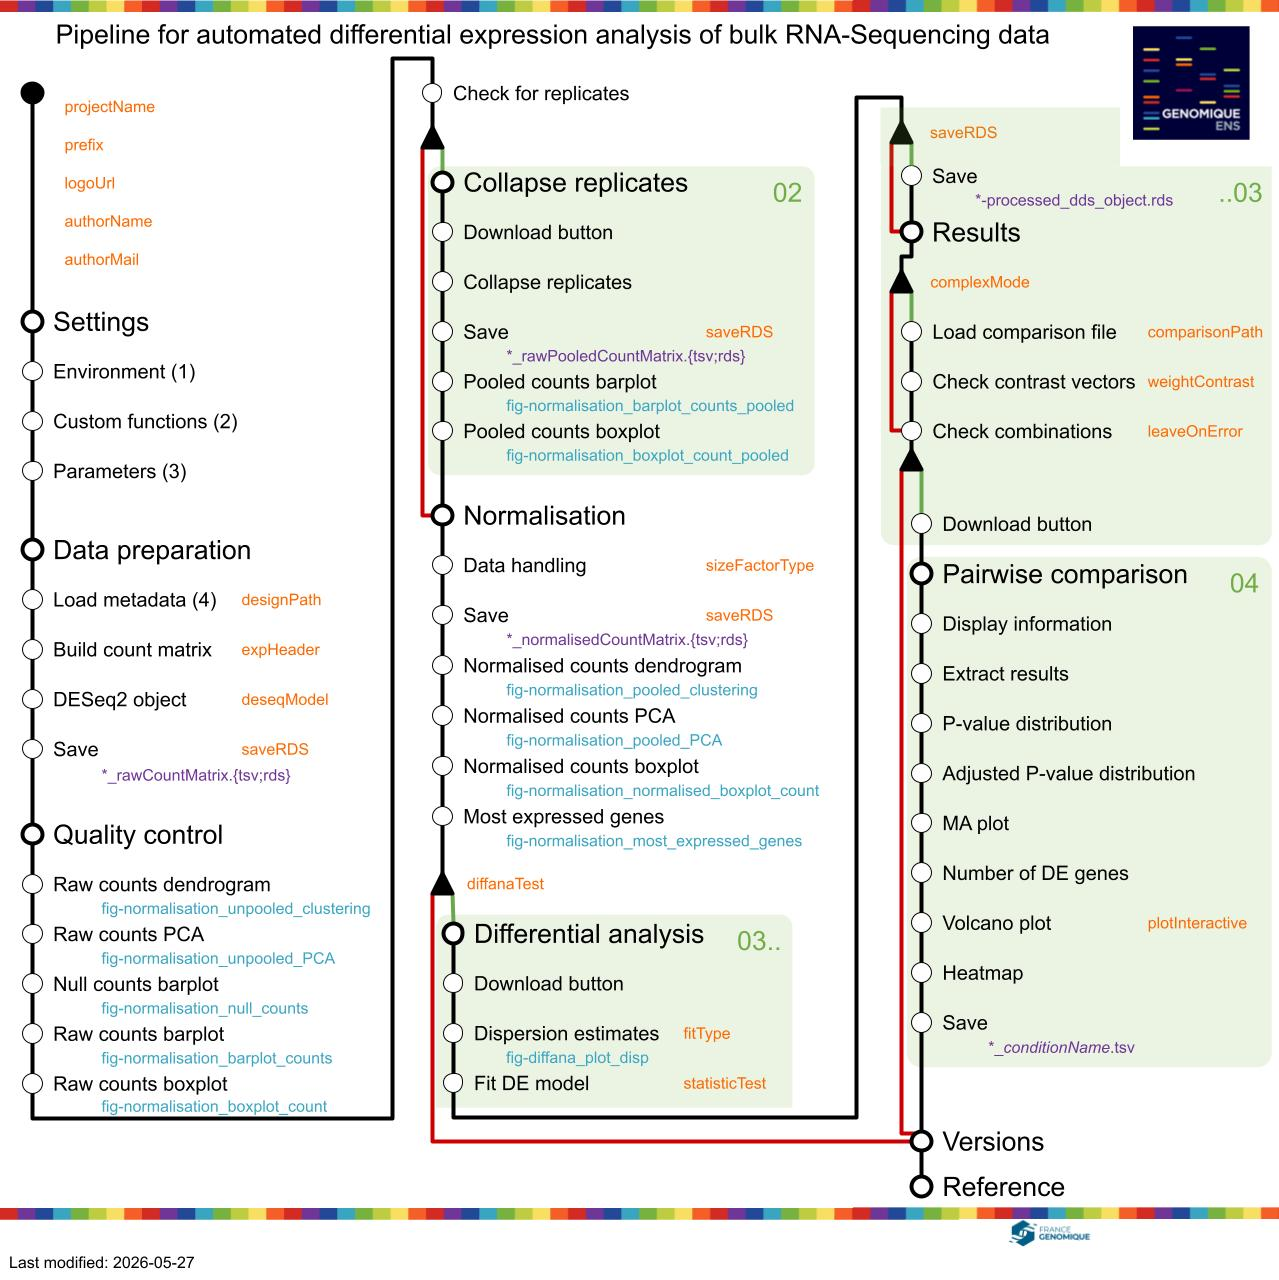
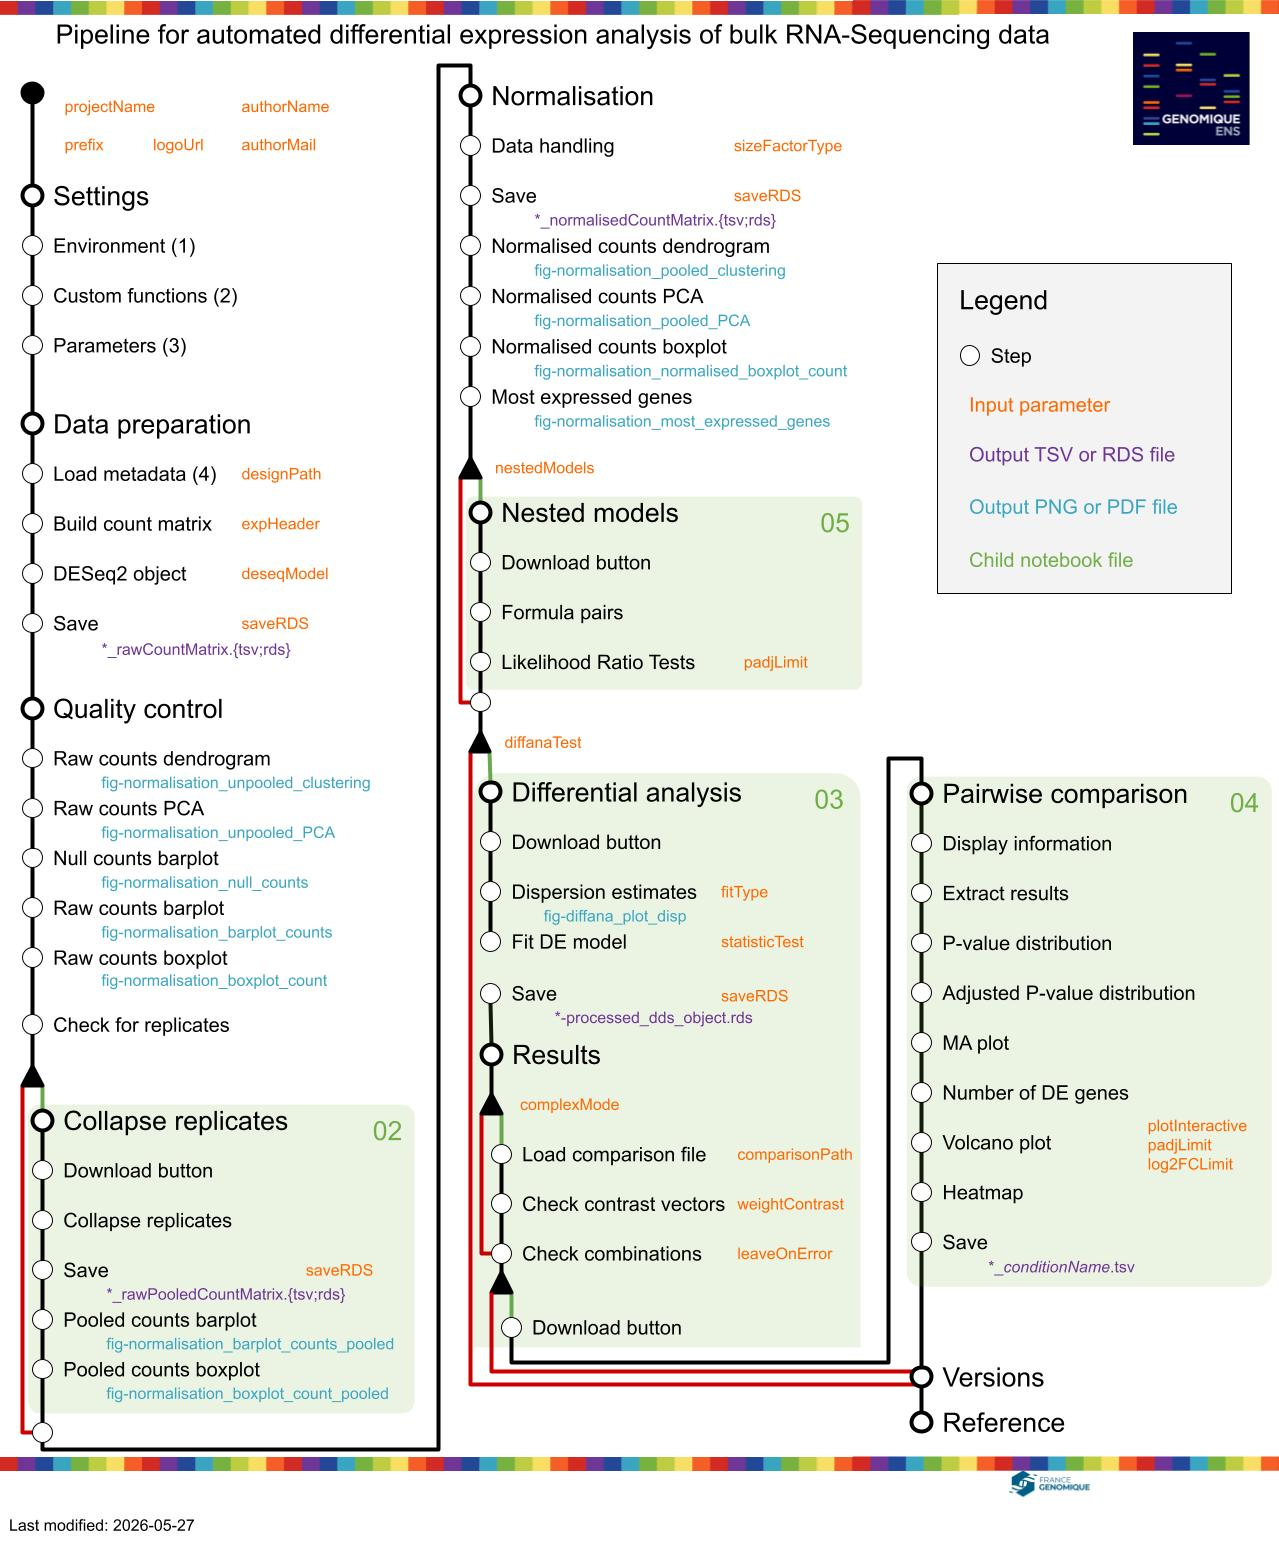
ADD nested models evaluation, closes #3

diff --git a/README.md b/README.md
@@ -63,7 +63,7 @@ Rscript -e "rmarkdown::render(
 
 ## Input parameters
 
-They are represented in orange (except `complexMode` which is internally determined when there is no `Reference` column in the design file) on the pipeline overview.
+They are represented in orange (except `complexMode` which is internally determined, and set to `TRUE` when there is no `Reference` column in the design file) on the pipeline overview.
 
 Parameter | Default value | Definition
 ----------|---------------|--------------
@@ -73,13 +73,16 @@ comparisonPath    |  NULL                          |  path to the comparison fil
 diffanaTest       |  TRUE                          |  Whether to perform the differential expression analysis or not
 expHeader         |  TRUE                          |  Whether the design table has a header or not
 deseqModel        |  "~Condition"                  |  DESeq2 model
+nestedModel       |  NULL                          |  Whether to perform a test of nested models (NULL: automatic determination based on the DESeq2 model)
 sizeFactorType    |  "ratio"                       |  Size factor type
 fitType           |  "parametric"                  |  Fit type
 statisticTest     |  "Wald"                        |  Statistic test
 weightContrast    |  FALSE                         |  Whether to weight the contrast vector by the number of samples or not*
-prefix            |  "./deseq2_"                     |  Prefix to save the output TSV files
+padjLimit         |  0.05                          |  Adjusted p-value threshold to consider a gene as differentially expressed
+log2FCLimit       |  2                             |  Absolute log2 fold-change threshold to consider a gene as differentially expressed
+prefix            |  "./deseq2_"                   |  Prefix to save the output TSV files
 plotInteractive   |  FALSE                         |  Whether to make interactive volcano plots or not
-logoUrl           |  "logo-GenomiqueENS-90pxh.png" | Link to the logo displayed in the top left corner of the output document
+logoUrl           |  "logo-GenomiqueENS-90pxh.png" |  Link to the logo displayed in the top left corner of the output document
 authorName        |  "Eoulsan"                     |  Name of the author, for the bottom left corner of the document
 authorMail        |  "[email redacted]"     |  Mail of the author, for the bottom left corner of the document
 leaveOnError      |  TRUE                          |  Whether to stop the rendering in case of error